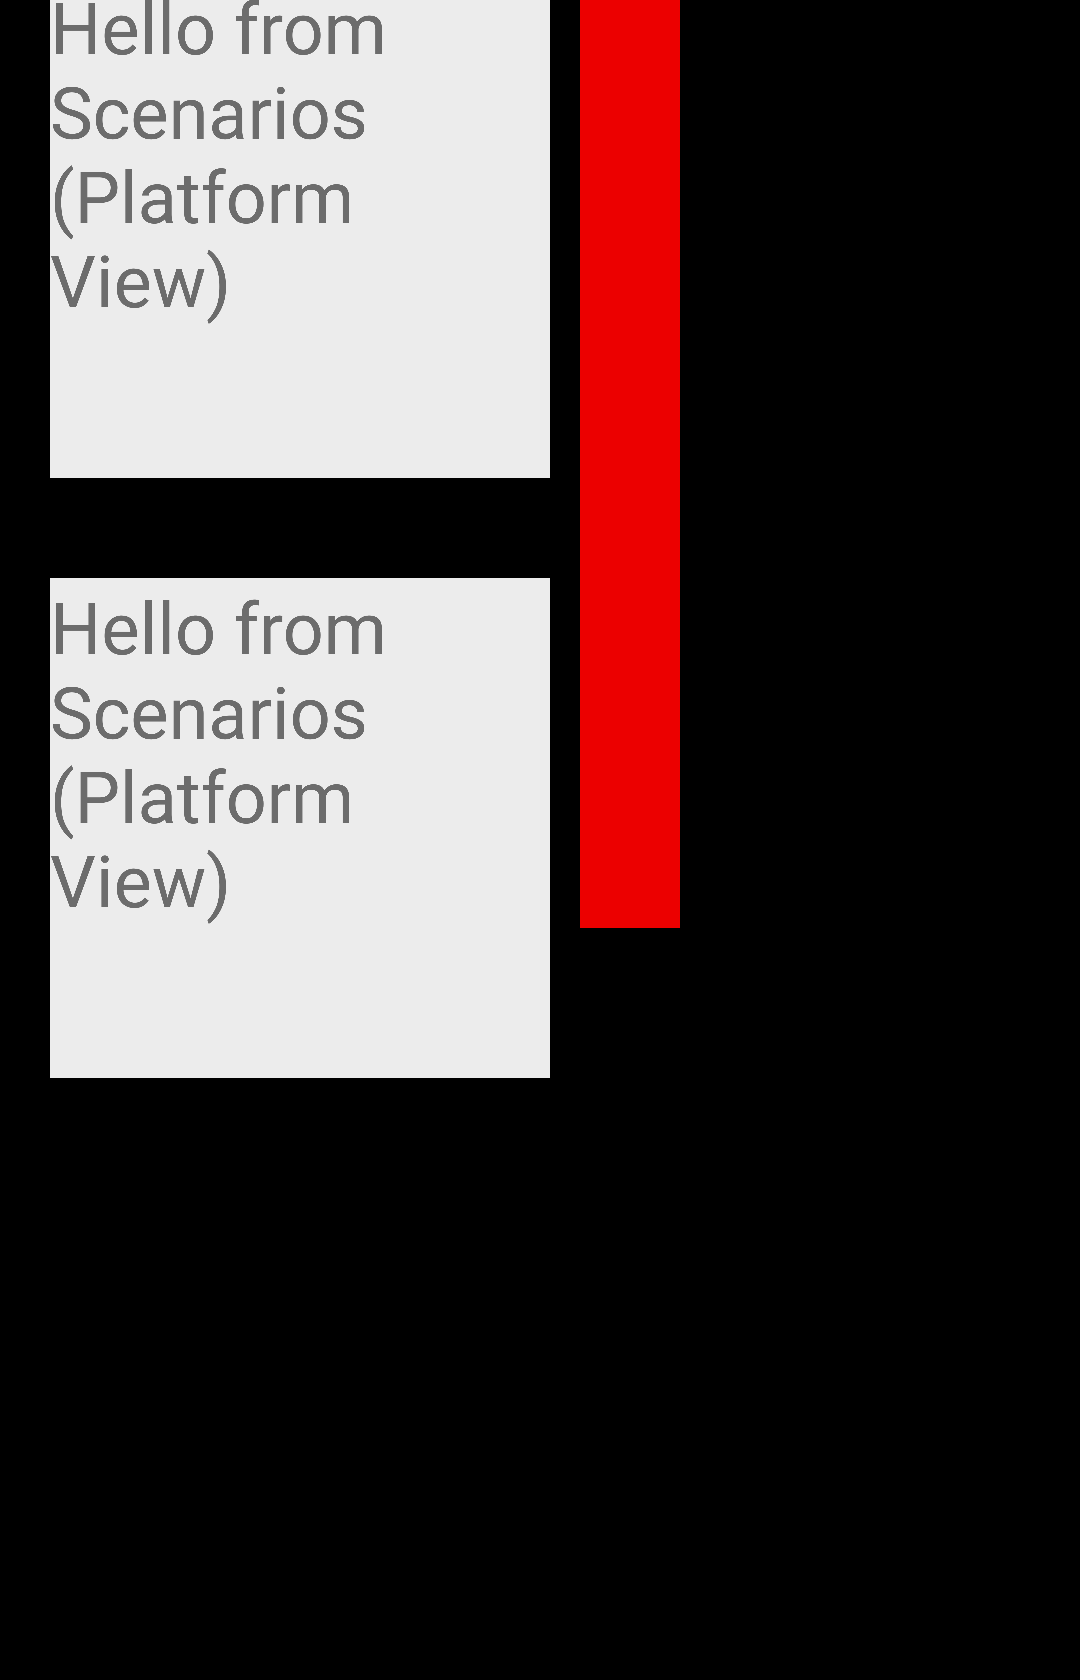
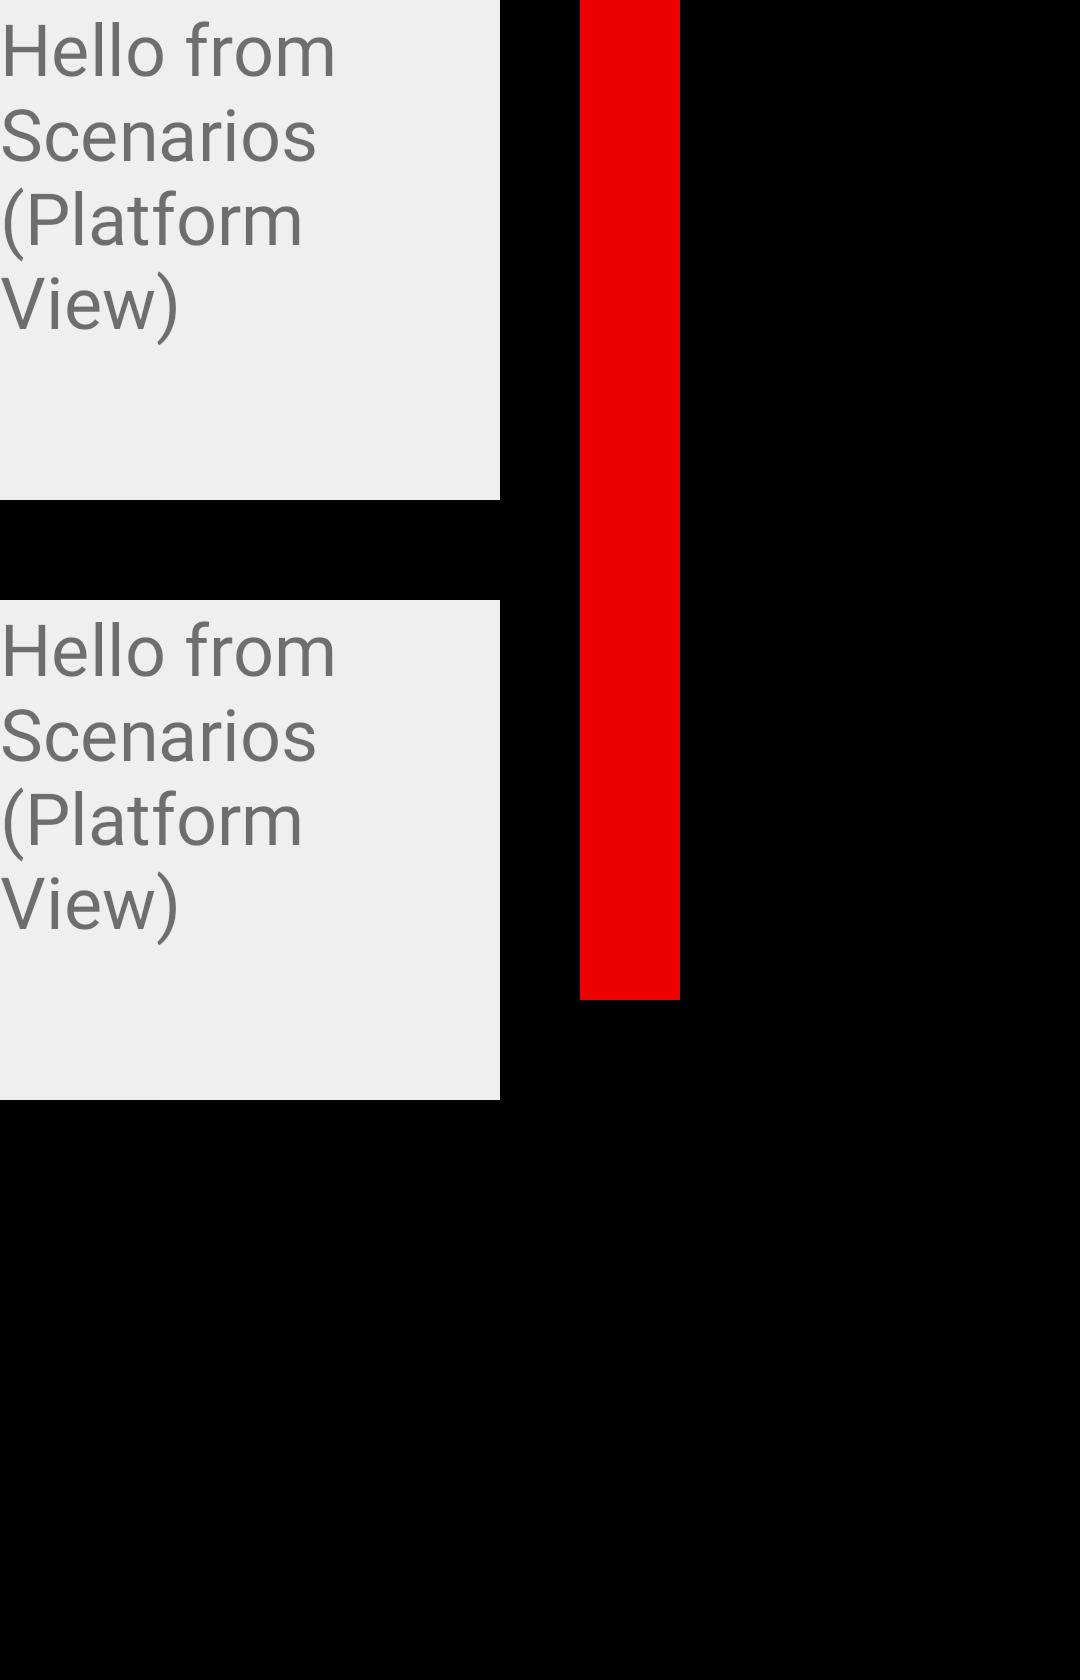
Fix and clean up scenario app for Android (#22540)

Changed region(s): [[0.0, 0.3405, 0.6417, 0.681], [0.0, 0.0, 0.5194, 0.3095]]

diff --git a/testing/scenario_app/lib/src/platform_view.dart b/testing/scenario_app/lib/src/platform_view.dart
@@ -46,8 +46,6 @@ class PlatformViewScenario extends Scenario with _BasePlatformViewScenarioMixin 
   void onBeginFrame(Duration duration) {
     final SceneBuilder builder = SceneBuilder();
 
-    builder.pushOffset(0, 0);
-
     finishBuilderByAddingPlatformViewAndPicture(builder, id);
   }
 }
@@ -69,8 +67,6 @@ class PlatformViewNoOverlayIntersectionScenario extends Scenario with _BasePlatf
   @override
   void onBeginFrame(Duration duration) {
     final SceneBuilder builder = SceneBuilder();
-
-    builder.pushOffset(0, 0);
 
     finishBuilderByAddingPlatformViewAndPicture(
       builder,
@@ -98,8 +94,6 @@ class PlatformViewPartialIntersectionScenario extends Scenario with _BasePlatfor
   void onBeginFrame(Duration duration) {
     final SceneBuilder builder = SceneBuilder();
 
-    builder.pushOffset(0, 0);
-
     finishBuilderByAddingPlatformViewAndPicture(
       builder,
       id,
@@ -125,8 +119,6 @@ class PlatformViewTwoIntersectingOverlaysScenario extends Scenario with _BasePla
   @override
   void onBeginFrame(Duration duration) {
     final SceneBuilder builder = SceneBuilder();
-
-    builder.pushOffset(0, 0);
 
     _addPlatformViewToScene(builder, id, 500, 500);
     final PictureRecorder recorder = PictureRecorder();
@@ -166,8 +158,6 @@ class PlatformViewOneOverlayTwoIntersectingOverlaysScenario extends Scenario wit
   @override
   void onBeginFrame(Duration duration) {
     final SceneBuilder builder = SceneBuilder();
-
-    builder.pushOffset(0, 0);
 
     _addPlatformViewToScene(builder, id, 500, 500);
     final PictureRecorder recorder = PictureRecorder();
@@ -217,8 +207,6 @@ class MultiPlatformViewWithoutOverlaysScenario extends Scenario with _BasePlatfo
   void onBeginFrame(Duration duration) {
     final SceneBuilder builder = SceneBuilder();
 
-    builder.pushOffset(0, 0);
-
     builder.pushOffset(0, 600);
     _addPlatformViewToScene(builder, firstId, 500, 500);
     builder.pop();
@@ -258,8 +246,6 @@ class PlatformViewMaxOverlaysScenario extends Scenario with _BasePlatformViewSce
   @override
   void onBeginFrame(Duration duration) {
     final SceneBuilder builder = SceneBuilder();
-
-    builder.pushOffset(0, 0);
 
     _addPlatformViewToScene(builder, id, 500, 500);
     final PictureRecorder recorder = PictureRecorder();
@@ -314,8 +300,6 @@ class MultiPlatformViewScenario extends Scenario with _BasePlatformViewScenarioM
   void onBeginFrame(Duration duration) {
     final SceneBuilder builder = SceneBuilder();
 
-    builder.pushOffset(0, 0);
-
     builder.pushOffset(0, 600);
     _addPlatformViewToScene(builder, firstId, 500, 500);
     builder.pop();
@@ -357,13 +341,13 @@ class MultiPlatformViewBackgroundForegroundScenario extends Scenario with _BaseP
   void _firstFrame() {
     final SceneBuilder builder = SceneBuilder();
 
-    builder.pushOffset(0, 0);
-
-    builder.pushOffset(0, 600);
+    builder.pushOffset(50, 600);
     _addPlatformViewToScene(builder, firstId, 500, 500);
     builder.pop();
 
+    builder.pushOffset(50, 0);
     _addPlatformViewToScene(builder, secondId, 500, 500);
+    builder.pop();
 
     final PictureRecorder recorder = PictureRecorder();
     final Canvas canvas = Canvas(recorder);
@@ -374,7 +358,6 @@ class MultiPlatformViewBackgroundForegroundScenario extends Scenario with _BaseP
     final Picture picture = recorder.endRecording();
     builder.addPicture(const Offset(0, 0), picture);
 
-    builder.pop();
     final Scene scene = builder.build();
     window.render(scene);
     scene.dispose();
@@ -383,13 +366,12 @@ class MultiPlatformViewBackgroundForegroundScenario extends Scenario with _BaseP
   void _secondFrame() {
     final SceneBuilder builder = SceneBuilder();
 
-    builder.pushOffset(0, 0);
-
     builder.pushOffset(0, 600);
     _addPlatformViewToScene(builder, firstId, 500, 500);
     builder.pop();
 
     _addPlatformViewToScene(builder, secondId, 500, 500);
+
     final Scene scene = builder.build();
     window.render(scene);
     scene.dispose();
@@ -430,9 +412,10 @@ class PlatformViewClipRectScenario extends Scenario with _BasePlatformViewScenar
 
   @override
   void onBeginFrame(Duration duration) {
-    final SceneBuilder builder = SceneBuilder();
-    builder.pushOffset(0, 0);
-    builder.pushClipRect(const Rect.fromLTRB(100, 100, 400, 400));
+    final SceneBuilder builder =
+      SceneBuilder()
+      ..pushClipRect(const Rect.fromLTRB(100, 100, 400, 400));
+
     finishBuilderByAddingPlatformViewAndPicture(builder, id);
   }
 }
@@ -446,8 +429,6 @@ class PlatformViewClipRRectScenario extends PlatformViewScenario {
   @override
   void onBeginFrame(Duration duration) {
     final SceneBuilder builder = SceneBuilder();
-
-    builder.pushOffset(0, 0);
     builder.pushClipRRect(
       RRect.fromLTRBAndCorners(
         100,
@@ -471,18 +452,14 @@ class PlatformViewClipPathScenario extends PlatformViewScenario {
 
   @override
   void onBeginFrame(Duration duration) {
-    final SceneBuilder builder = SceneBuilder();
-
-    builder.pushOffset(0, 0);
-
     final Path path = Path()
       ..moveTo(100, 100)
       ..quadraticBezierTo(50, 250, 100, 400)
       ..lineTo(350, 400)
       ..cubicTo(400, 300, 300, 200, 350, 100)
       ..close();
-    builder.pushClipPath(path);
 
+    final SceneBuilder builder = SceneBuilder()..pushClipPath(path);
     finishBuilderByAddingPlatformViewAndPicture(builder, id);
   }
 }
@@ -495,15 +472,12 @@ class PlatformViewTransformScenario extends PlatformViewScenario {
 
   @override
   void onBeginFrame(Duration duration) {
-    final SceneBuilder builder = SceneBuilder();
-
-    builder.pushOffset(0, 0);
     final Matrix4 matrix4 = Matrix4.identity()
       ..rotateZ(1)
       ..scale(0.5, 0.5, 1.0)
       ..translate(1000.0, 100.0, 0.0);
 
-    builder.pushTransform(matrix4.storage);
+    final SceneBuilder builder = SceneBuilder()..pushTransform(matrix4.storage);
 
     finishBuilderByAddingPlatformViewAndPicture(builder, id);
   }
@@ -517,11 +491,7 @@ class PlatformViewOpacityScenario extends PlatformViewScenario {
 
   @override
   void onBeginFrame(Duration duration) {
-    final SceneBuilder builder = SceneBuilder();
-
-    builder.pushOffset(0, 0);
-    builder.pushOpacity(150);
-
+    final SceneBuilder builder = SceneBuilder()..pushOpacity(150);
     finishBuilderByAddingPlatformViewAndPicture(builder, id);
   }
 }
@@ -600,15 +570,11 @@ class PlatformViewForTouchIOSScenario extends Scenario
 
   void _firstFrame() {
     final SceneBuilder builder = SceneBuilder();
-
-    builder.pushOffset(0, 0);
     finishBuilderByAddingPlatformViewAndPicture(builder, _viewId);
   }
 
   void _secondFrame() {
-    final SceneBuilder builder = SceneBuilder();
-
-    builder.pushOffset(5, 5);
+    final SceneBuilder builder = SceneBuilder()..pushOffset(5, 5);
     finishBuilderByAddingPlatformViewAndPicture(builder, _viewId);
   }
 }

diff --git a/testing/scenario_app/android/app/src/androidTest/java/dev/flutter/scenariosui/ScreenshotUtil.java b/testing/scenario_app/android/app/src/androidTest/java/dev/flutter/scenariosui/ScreenshotUtil.java
@@ -4,8 +4,6 @@
 
 package dev.flutter.scenariosui;
 
-import android.app.Activity;
-import android.content.Context;
 import android.graphics.Bitmap;
 import android.os.Bundle;
 import android.os.Handler;
@@ -129,28 +127,6 @@ public class ScreenshotUtil {
     album = null;
   }
 
-  private static int getStatusBarHeight() {
-    final Context context = InstrumentationRegistry.getTargetContext();
-    // Resource name defined in
-    // https://android.googlesource.com/platform/frameworks/base/+/master/core/res/res/values/dimens.xml#34
-    final int resourceId =
-        context.getResources().getIdentifier("status_bar_height", "dimen", "android");
-    int statusBarHeight = 0;
-    if (resourceId > 0) {
-      statusBarHeight = context.getResources().getDimensionPixelSize(resourceId);
-    }
-    return statusBarHeight;
-  }
-
-  private static int getActionBarHeight(Activity activity) {
-    int actionBarHeight = 0;
-    final android.content.res.TypedArray styledAttributes =
-        activity.getTheme().obtainStyledAttributes(new int[] {android.R.attr.actionBarSize});
-    actionBarHeight = (int) styledAttributes.getDimension(0, 0);
-    styledAttributes.recycle();
-    return actionBarHeight;
-  }
-
   /**
    * Captures a screenshot of {@code TestableFlutterActivity}.
    *
@@ -182,13 +158,7 @@ public class ScreenshotUtil {
             Bitmap bitmap =
                 InstrumentationRegistry.getInstrumentation().getUiAutomation().takeScreenshot();
             // Remove the status and action bars from the screenshot capture.
-            bitmap =
-                Bitmap.createBitmap(
-                    bitmap,
-                    0,
-                    getStatusBarHeight(),
-                    bitmap.getWidth(),
-                    bitmap.getHeight() - getStatusBarHeight() - getActionBarHeight(activity));
+            bitmap = Bitmap.createBitmap(bitmap, 0, 0, bitmap.getWidth(), bitmap.getHeight());
 
             final String screenshotName = String.format("%s__%s", testClass, testName);
             // Write bitmap to the album.

diff --git a/testing/scenario_app/ios/Scenarios/ScenariosUITests/UnobstructedPlatformViewTests.m b/testing/scenario_app/ios/Scenarios/ScenariosUITests/UnobstructedPlatformViewTests.m
@@ -195,30 +195,30 @@
 
   XCUIElement* platform_view1 = app.textViews[@"platform_view[0]"];
   XCTAssertTrue([platform_view1 waitForExistenceWithTimeout:1.0]);
-  XCTAssertEqual(platform_view1.frame.origin.x, 25);
+  XCTAssertEqual(platform_view1.frame.origin.x, 50);
   XCTAssertEqual(platform_view1.frame.origin.y, 325);
   XCTAssertEqual(platform_view1.frame.size.width, 250);
   XCTAssertEqual(platform_view1.frame.size.height, 250);
 
   XCUIElement* platform_view2 = app.textViews[@"platform_view[1]"];
   XCTAssertTrue(platform_view2.exists);
-  XCTAssertEqual(platform_view2.frame.origin.x, 25);
+  XCTAssertEqual(platform_view2.frame.origin.x, 50);
   XCTAssertEqual(platform_view2.frame.origin.y, 25);
   XCTAssertEqual(platform_view2.frame.size.width, 250);
   XCTAssertEqual(platform_view2.frame.size.height, 250);
 
   XCUIElement* overlay1 = app.otherElements[@"platform_view[0].overlay[0]"];
   XCTAssertTrue(overlay1.exists);
-  XCTAssertEqual(overlay1.frame.origin.x, 25);
+  XCTAssertEqual(overlay1.frame.origin.x, 50);
   XCTAssertEqual(overlay1.frame.origin.y, 325);
-  XCTAssertEqual(overlay1.frame.size.width, 225);
+  XCTAssertEqual(overlay1.frame.size.width, 200);
   XCTAssertEqual(overlay1.frame.size.height, 175);
 
   XCUIElement* overlay2 = app.otherElements[@"platform_view[1].overlay[0]"];
   XCTAssertTrue(overlay2.exists);
-  XCTAssertEqual(overlay2.frame.origin.x, 25);
+  XCTAssertEqual(overlay2.frame.origin.x, 50);
   XCTAssertEqual(overlay2.frame.origin.y, 25);
-  XCTAssertEqual(overlay2.frame.size.width, 225);
+  XCTAssertEqual(overlay2.frame.size.width, 200);
   XCTAssertEqual(overlay2.frame.size.height, 250);
 }
 

diff --git a/testing/scenario_app/README.md b/testing/scenario_app/README.md
@@ -46,7 +46,7 @@ The test is run on a x86 emulator. To run the test locally, you must create an e
 
 ```
 hw.lcd.density = 480
-hw.lcd.height = 1920
+hw.lcd.height = 1680
 hw.lcd.width = 1080
 lcd.depth = 16
 ```
